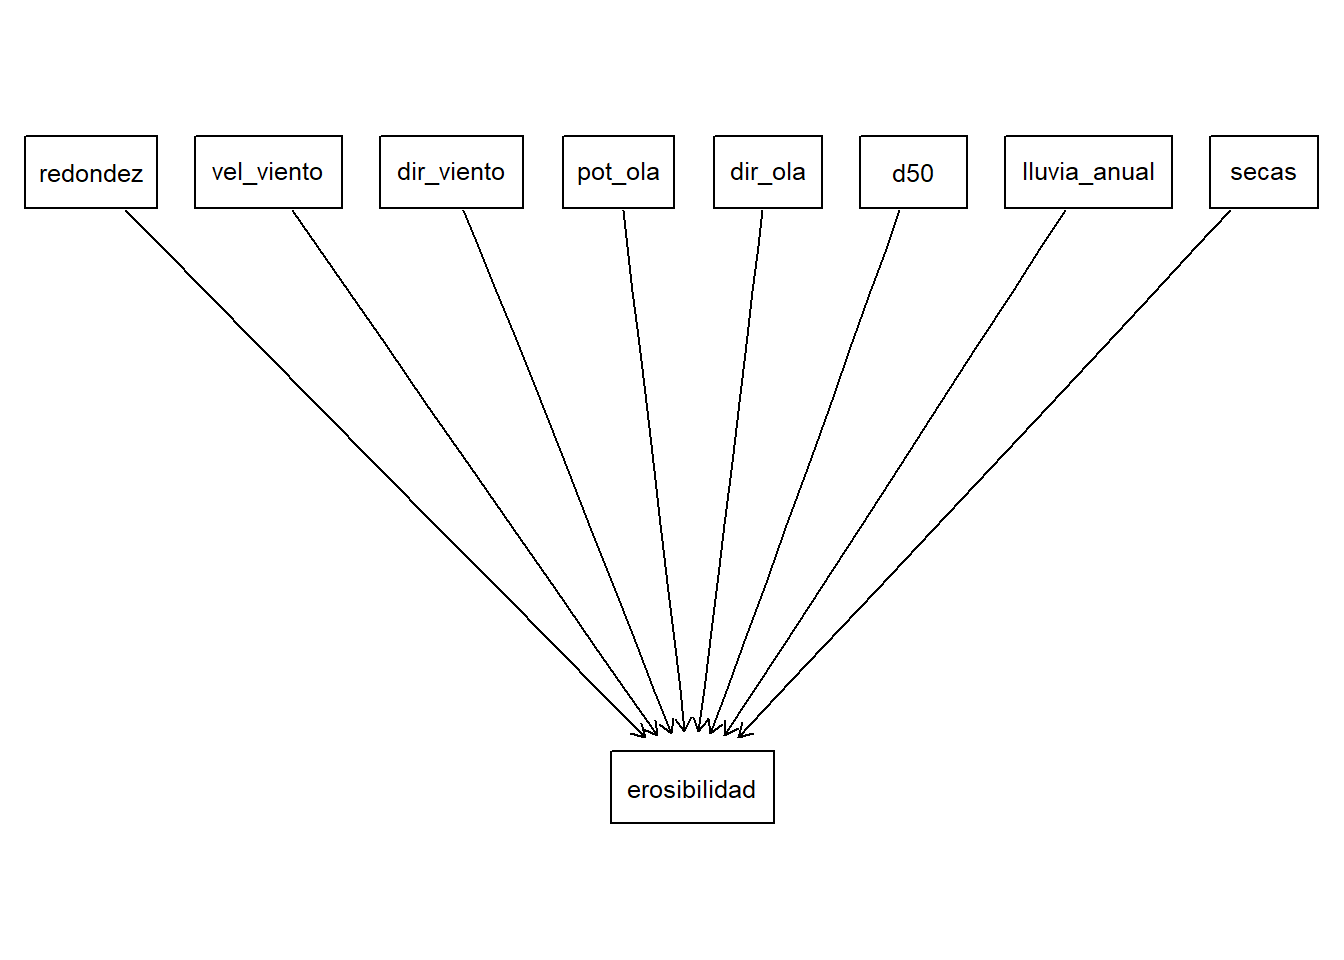
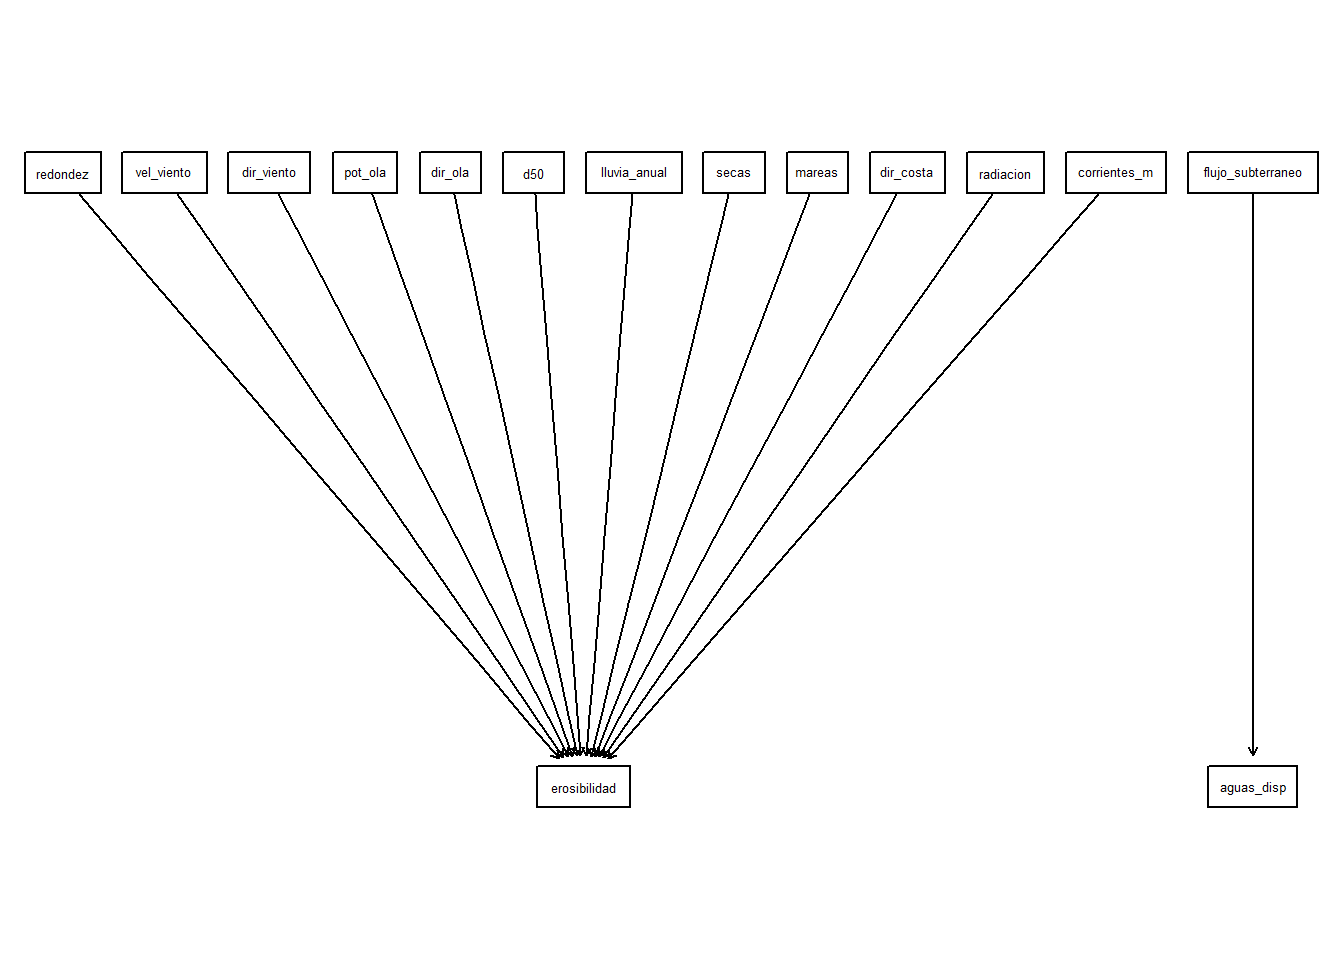
Resultados taller

diff --git a/_book/miro-costas.html b/_book/miro-costas.html
@@ -311,12 +311,12 @@ pre > code.sourceCode > span > a:first-child::before { text-decoration: underlin
 <div class="cell-output cell-output-stdout">
 <pre><code>Miro board origin:      Costa arenosa
 Is it a TRUE DAG?:      Graph is acyclic
-Number of sticky notes: 43
-Nodes without var:      1
-Number of linked nodes: 9
+Number of sticky notes: 46
+Nodes without var:      4
+Number of linked nodes: 15
 Duplicated nodes:       0
-Number of arcs:         8
-Well connected arcs:    8
+Number of arcs:         13
+Well connected arcs:    13
 Numb. Loose arcs:       0
 Duplicated arcs:        0</code></pre>
 </div>
@@ -332,15 +332,16 @@ Duplicated arcs:        0</code></pre>
 
   model:
    [redondez][vel_viento][dir_viento][pot_ola][dir_ola][d50][lluvia_anual]
-   [secas]
-   [erosibilidad|redondez:vel_viento:dir_viento:pot_ola:dir_ola:d50:lluvia_anual:secas]
-  nodes:                                 9 
-  arcs:                                  8 
+   [secas][mareas][dir_costa][radiacion][flujo_subterraneo][corrientes_m]
+   [erosibilidad|redondez:vel_viento:dir_viento:pot_ola:dir_ola:d50:lluvia_anual:secas:mareas:dir_costa:radiacion:corrientes_m]
+   [aguas_disp|flujo_subterraneo]
+  nodes:                                 15 
+  arcs:                                  13 
     undirected arcs:                     0 
-    directed arcs:                       8 
-  average markov blanket size:           8.00 
-  average neighbourhood size:            1.78 
-  average branching factor:              0.89 
+    directed arcs:                       13 
+  average markov blanket size:           10.53 
+  average neighbourhood size:            1.73 
+  average branching factor:              0.87 
 
   generation algorithm:                  Empty </code></pre>
 </div>
@@ -358,8 +359,8 @@ Duplicated arcs:        0</code></pre>
 <p>La lista de variables identificadas es:</p>
 <div class="cell">
 <div class="cell-output-display">
-<div class="datatables html-widget html-fill-item" id="htmlwidget-b3754db418718ef548aa" style="width:100%;height:auto;"></div>
-<script type="application/json" data-for="htmlwidget-b3754db418718ef548aa">{"x":{"filter":"none","vertical":false,"data":[["1","2","3","4","5","6","7","8","9","10","11","12","13","14","15","16","17","18","19","20","21","22","23","24","25","26","27","28","29","30","31","32","33","34","35","36","37","38","39","40","41","42","43"],["potencia de la ola (datos horarios 1940-2022)https://confluence.ecmwf.int/display/CKB/ERA5%3A&amp;#43;data&amp;#43;documentation","mareasMareografos de Pafícico y Atlántico (SEMAR) RODOLFO","forma de crecimiento de vegetación de dunas:Tomar de base de datos de Ileana/conabio. Zonas con arbustivas tienden mayor erosión. en zonas como dice marisa eso no pasa","disponinibilidad de arena -ancho playa","geología(geomorfología,tipo de roca)Pedir carta geológica minera servicio geologico mexicano. Octavio  y Karla en formato shape &amp;#34;Geológica minera&amp;#34;https://www.sgm.gob.mx/CartasDisponibles/ (en pdf hasta 1:50000)https://www.sgm.gob.mx/GeoInfoMexGobMx/#(shape)","Arrecifes de coral-Buscar la mejor capa: blaqueamiento, Copernicus o Conabiohttps://simar.conabio.gob.mx/explorer/?undefined","pastos marinoshttps://simar.conabio.gob.mx/explorer/?undefined","Disponibilidad de agua salobre o dulce","Flujo subterráneo. Información disponible en SHP (polígonos). Solicitar a Rodolfo / Valeria. Tiene una clasificación. Nivel nacional. Artículo: https://www.mdpi.com/2073-4441/12/9/2459","Sol. WB_Global solar atlas. https://globalsolaratlas.info/map?c&amp;#61;19.248922,-97.171326,9&amp;amp;s&amp;#61;19.519781,-96.911168&amp;amp;m&amp;#61;site ","EvapotraspiraciónEn terminos de germinación y cobertura","NOTAS GENERALESJuntaremos playa y duna como un solo ecosistema. Sugerencia de Rodolfo","Plataforma continental. GEBCO. Gridded Bathymetry data download.https://download.gebco.net","Infraestructura","Otros HumedalesSIMARPaty Moreno","Estructuras marinas","Influencia antrópica","ALTERACIONES ANTROPICAS DE LA Calidad del agua","Pendiente de la playaInformación puntualMónica y otros","Diámetro mediano D50(base de datos GICP-IIUNAM)","Redondez sedimento. (base de datos GICP-IIUNAM)","Dirección de la línea de costa con relación al oleaje y al vientoUsar línea de costa propuesta por  Rodolfo","Efecto del sargazo","Corrientes MarinasAtlas de corrientes IMTA de Efraín Mateos (Base de datos del CEMIE)VALERIA","Especies invasorasUsar datos procesados por Julián","Perfil de sueloPerfiles edafológicos se pueden encontrar en:https://www.inegi.org.mx/app/biblioteca/ficha.html?upc&amp;#61;702825266707Suelos sueltos y poco compactados son más susceptibles a la erosión eólica, lo que facilita la formación de dunas. Por otro lado, suelos más compactos pueden resistir mejor la acción del viento. La presencia de diferentes horizontes en el perfil edafológico puede afectar la disponibilidad de sedimentos para la formación de dunas. Un horizonte superficial arenoso es ideal para la movilización de partículas.","Macroalgashttps://fjps.springeropen.com/articles/10.1186/s43094-020-00147-6","Estacionalidad fuente: copernicus. posprocesar para ver también temporada de secas VALERIA - Marisa proporciona el criterio","Condición","Precipitación- fuente: copernicus. posprocesar para ver también temporada de secas VALERIA","GastoEscurrimiento en cuencaAporte de sedimento terrígeno","dirección de la ola (datos horarios 1940-2022)https://confluence.ecmwf.int/display/CKB/ERA5%3A&amp;#43;data&amp;#43;documentation","velocidad del viento (datos horarios 1940-2022)https://confluence.ecmwf.int/display/CKB/ERA5%3A&amp;#43;data&amp;#43;documentationEventos de vientos extremos. Encontrar umbrales de viento y ver si favorecen la construcción o la destrucción de duna. ¿Velocidad de inicio de arrastre?WB_Atlas eólico mundial: https://globalwindatlas.info/es/PENDIENTE DEFINIR UMBRALES","dirección del viento (datos horarios 1940-2022)https://confluence.ecmwf.int/display/CKB/ERA5%3A&amp;#43;data&amp;#43;documentation","Detección","Contexto","Otro","Intervención hunama","HumedadEn terminos de germinación y cobertura","Checar pagina de idea del instituto de geografíahttps://www.gits.igg.unam.mx/idea/descargaGaby Gómez","Tasa de desplazamiento(Erosión- / acresión &amp;#43;)","erosibilidad","Resolución raster100m"],["pot_ola","mareas","habito","ancho_playa","geologia","coral","pastos","aguas_disp","flujo_subterraneo","radiacion","evapotranspiracion","notas_1","plataforma_cont","infraestruct","otros_hum","estruct_marina","influ_antro","alt_antro","pendiente","d50","redondez","dir_costa","EfectoDelSargaso","corrientes_m","invasoras","perfilsuelo","macroalgas","secas","condicion","lluvia_anual","gasto","dir_ola","vel_viento","dir_viento","inf_2","inf_1","inf_4","inf_3","humedad","notas_2","-","erosibilidad","resolucion"],["blue","blue","blue","blue","blue","dark_green","dark_green","blue","blue","blue","dark_green","gray","blue","orange","green","orange","orange","orange","blue","blue","blue","blue","violet","blue","violet","blue","dark_green","blue","green","blue","blue","blue","blue","blue","dark_green","blue","violet","orange","dark_green","gray","dark_green","green","cyan"]],"container":"<table class=\"display\">\n  <thead>\n    <tr>\n      <th> <\/th>\n      <th>text<\/th>\n      <th>var<\/th>\n      <th>color<\/th>\n    <\/tr>\n  <\/thead>\n<\/table>","options":{"columnDefs":[{"orderable":false,"targets":0},{"name":" ","targets":0},{"name":"text","targets":1},{"name":"var","targets":2},{"name":"color","targets":3}],"order":[],"autoWidth":false,"orderClasses":false,"rowCallback":"function(row, data, displayNum, displayIndex, dataIndex) {\n}"}},"evals":["options.rowCallback"],"jsHooks":[]}</script>
+<div class="datatables html-widget html-fill-item" id="htmlwidget-ac6c8320db6a2d57f96c" style="width:100%;height:auto;"></div>
+<script type="application/json" data-for="htmlwidget-ac6c8320db6a2d57f96c">{"x":{"filter":"none","vertical":false,"data":[["1","2","3","4","5","6","7","8","9","10","11","12","13","14","15","16","17","18","19","20","21","22","23","24","25","26","27","28","29","30","31","32","33","34","35","36","37","38","39","40","41","42","43","44","45","46"],["potencia de la ola (datos horarios 1940-2022)https://confluence.ecmwf.int/display/CKB/ERA5%3A&amp;#43;data&amp;#43;documentation","mareasMareografos de Pafícico y Atlántico (SEMAR) RODOLFO","forma de crecimiento de vegetación de dunas:Tomar de base de datos de Ileana/conabio. Zonas con arbustivas tienden mayor erosión. en zonas como dice marisa eso no pasa","disponinibilidad de arena -ancho playa","geología(geomorfología,tipo de roca)Pedir carta geológica minera servicio geologico mexicano. Octavio  y Karla en formato shape &amp;#34;Geológica minera&amp;#34;https://www.sgm.gob.mx/CartasDisponibles/ (en pdf hasta 1:50000)https://www.sgm.gob.mx/GeoInfoMexGobMx/#(shape)","Arrecifes de coral-Buscar la mejor capa: blaqueamiento, Copernicus o Conabiohttps://simar.conabio.gob.mx/explorer/?undefined","pastos marinoshttps://simar.conabio.gob.mx/explorer/?undefined","Disponibilidad de agua salobre o dulce","Flujo subterráneo. Información disponible en SHP (polígonos). Solicitar a Rodolfo / Valeria. Tiene una clasificación. Nivel nacional. Artículo: https://www.mdpi.com/2073-4441/12/9/2459","Sol. WB_Global solar atlas. https://globalsolaratlas.info/map?c&amp;#61;19.248922,-97.171326,9&amp;amp;s&amp;#61;19.519781,-96.911168&amp;amp;m&amp;#61;site ","EvapotraspiraciónEn terminos de germinación y cobertura","NOTAS GENERALESJuntaremos playa y duna como un solo ecosistema. Sugerencia de Rodolfo","Plataforma continental. GEBCO. Gridded Bathymetry data download.https://download.gebco.net","Infraestructura","ManglaresSIMARPaty Moreno","Estructuras marinas","Influencia antrópica","ALTERACIONES ANTROPICAS DE LA Calidad del agua","Pendiente de la playaInformación puntualMónica y otros","Diámetro mediano D50(base de datos GICP-IIUNAM)","Redondez sedimento. (base de datos GICP-IIUNAM)","Dirección de la línea de costa con relación al oleaje y al vientoUsar línea de costa propuesta por  Rodolfo","Efecto del sargazo","Corrientes MarinasAtlas de corrientes IMTA de Efraín Mateos (Base de datos del CEMIE)VALERIA","Especies invasorasUsar datos procesados por Julián","Perfil de sueloPerfiles edafológicos se pueden encontrar en:https://www.inegi.org.mx/app/biblioteca/ficha.html?upc&amp;#61;702825266707Suelos sueltos y poco compactados son más susceptibles a la erosión eólica, lo que facilita la formación de dunas. Por otro lado, suelos más compactos pueden resistir mejor la acción del viento. La presencia de diferentes horizontes en el perfil edafológico puede afectar la disponibilidad de sedimentos para la formación de dunas. Un horizonte superficial arenoso es ideal para la movilización de partículas.","Macroalgashttps://fjps.springeropen.com/articles/10.1186/s43094-020-00147-6","Estacionalidad fuente: copernicus. posprocesar para ver también temporada de secas VALERIA - Marisa proporciona el criterio","Condición","Precipitación- fuente: copernicus. posprocesar para ver también temporada de secas VALERIA","GastoEscurrimiento en cuencaAporte de sedimento terrígeno","dirección de la ola (datos horarios 1940-2022)https://confluence.ecmwf.int/display/CKB/ERA5%3A&amp;#43;data&amp;#43;documentation","velocidad del viento (datos horarios 1940-2022)https://confluence.ecmwf.int/display/CKB/ERA5%3A&amp;#43;data&amp;#43;documentationEventos de vientos extremos. Encontrar umbrales de viento y ver si favorecen la construcción o la destrucción de duna. ¿Velocidad de inicio de arrastre?WB_Atlas eólico mundial: https://globalwindatlas.info/es/PENDIENTE DEFINIR UMBRALES","dirección del viento (datos horarios 1940-2022)https://confluence.ecmwf.int/display/CKB/ERA5%3A&amp;#43;data&amp;#43;documentation","Detección","Contexto","Otro","Intervención hunama","HumedadEn terminos de germinación y cobertura","Checar pagina de idea del instituto de geografíahttps://www.gits.igg.unam.mx/idea/descargaGaby Gómez","Tasa de desplazamiento(Erosión- / acresión &amp;#43;)","erosibilidad","Resolución raster100 m por lado (equivalete a 3 segundos)En versión &amp;#34;caso de estudio&amp;#34; serán pixeles de 10m por lado (equivale a 0.3 segundos).","Ale:Presencia de especies indicadoras sensibles a cambios en la costa:","Aves marinas: chorlosAudubon society y Conell","Sitios de anidación de tortugas marinas"],["pot_ola","mareas","habito","ancho_playa","geologia","coral","pastos","aguas_disp","flujo_subterraneo","radiacion","evapotranspiracion","notas_1","plataforma_cont","infraestruct","mangle","estruct_marina","influ_antro","alt_antro","pendiente","d50","redondez","dir_costa","EfectoDelSargaso","corrientes_m","invasoras","perfilsuelo","macroalgas","secas","condicion","lluvia_anual","gasto","dir_ola","vel_viento","dir_viento","inf_2","inf_1","inf_4","inf_3","humedad","notas_2","-","erosibilidad","resolucion","-","-","-"],["blue","blue","dark_green","dark_green","blue","dark_green","dark_green","blue","blue","blue","dark_green","gray","blue","orange","dark_green","orange","orange","orange","dark_green","blue","blue","blue","violet","blue","dark_green","dark_green","dark_green","blue","green","blue","blue","blue","blue","blue","dark_green","blue","violet","orange","dark_green","gray","dark_green","green","cyan","dark_green","dark_green","dark_green"]],"container":"<table class=\"display\">\n  <thead>\n    <tr>\n      <th> <\/th>\n      <th>text<\/th>\n      <th>var<\/th>\n      <th>color<\/th>\n    <\/tr>\n  <\/thead>\n<\/table>","options":{"columnDefs":[{"orderable":false,"targets":0},{"name":" ","targets":0},{"name":"text","targets":1},{"name":"var","targets":2},{"name":"color","targets":3}],"order":[],"autoWidth":false,"orderClasses":false,"rowCallback":"function(row, data, displayNum, displayIndex, dataIndex) {\n}"}},"evals":["options.rowCallback"],"jsHooks":[]}</script>
 </div>
 </div>
 
